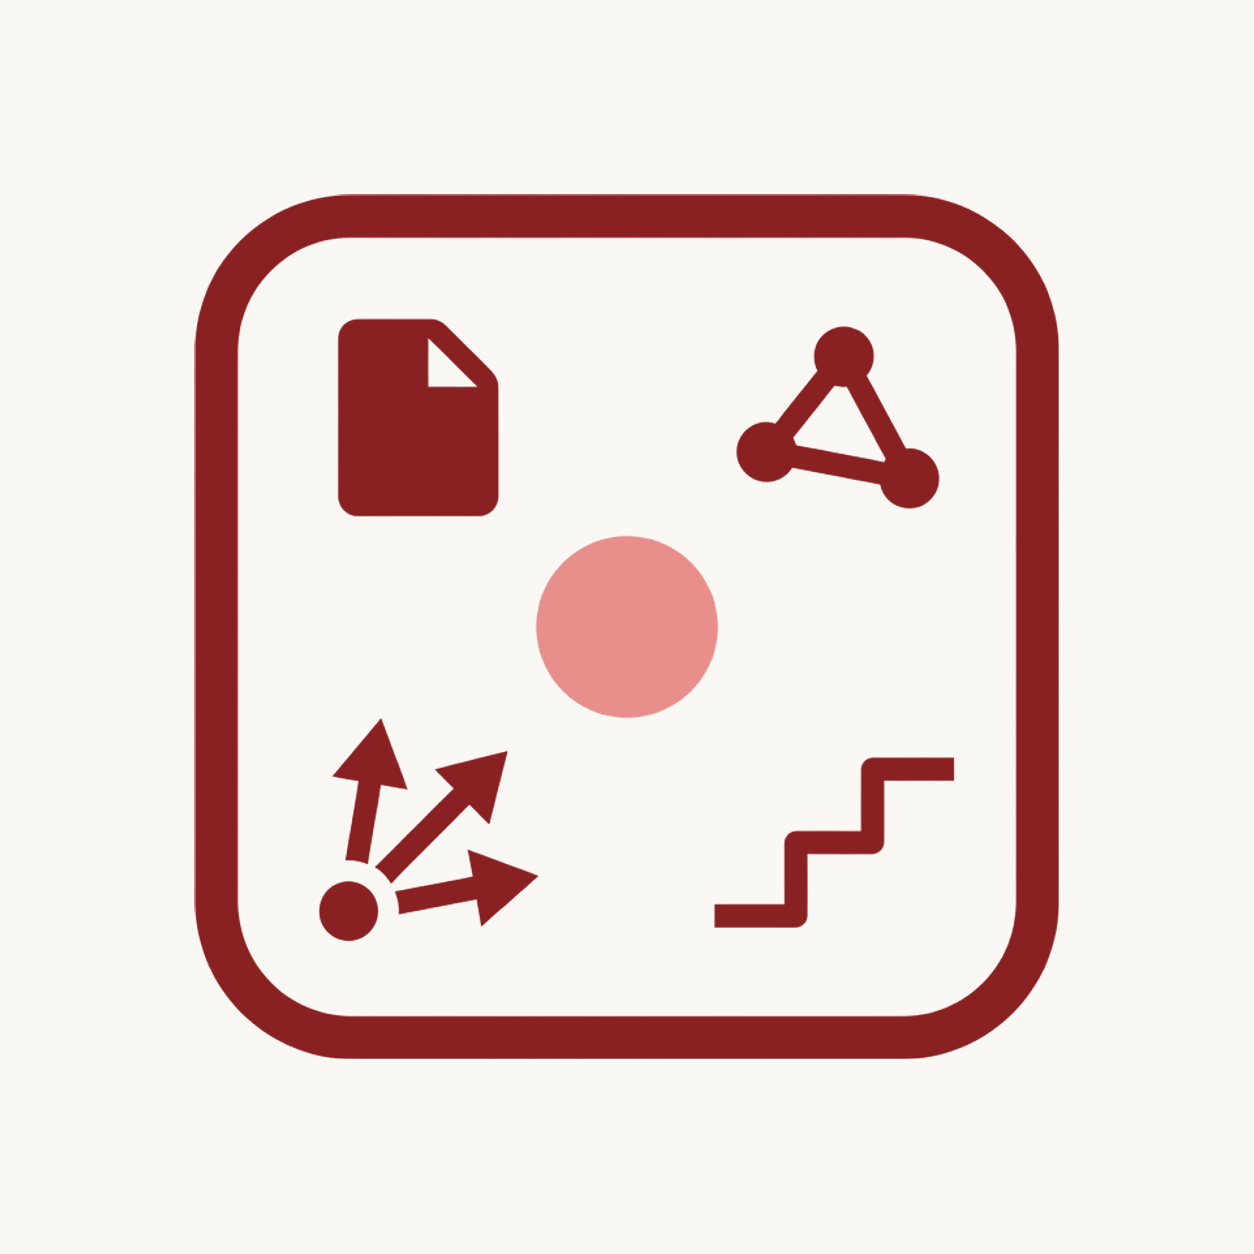
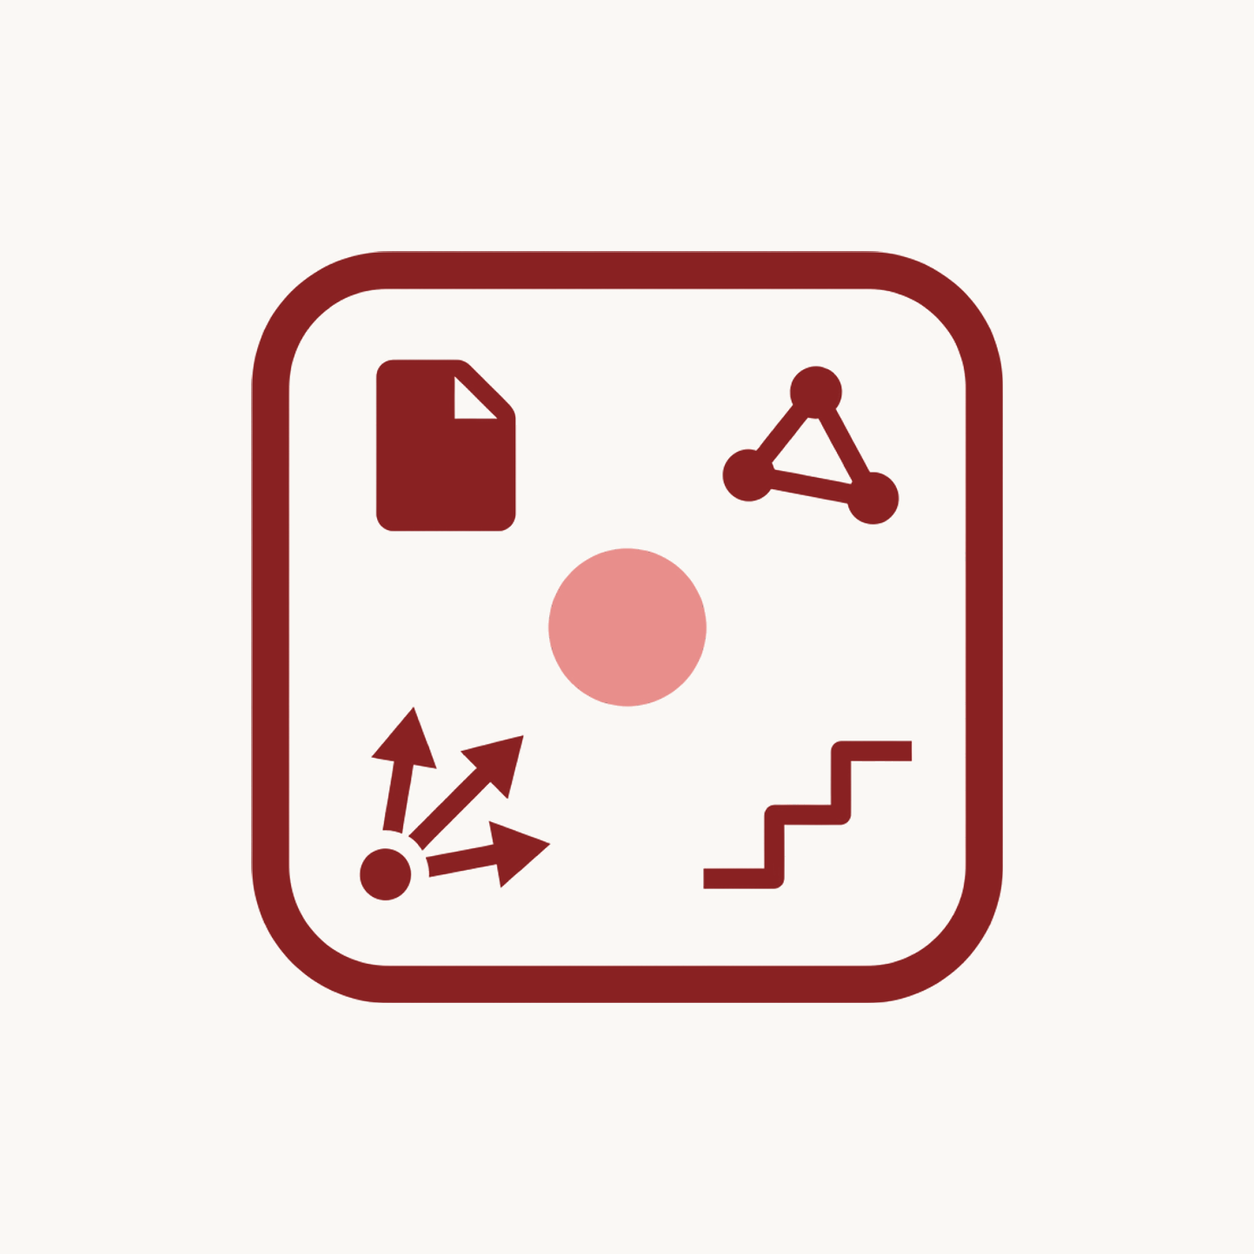
Project illustrations: fit the content to 60% of the height so the 16:10 hero keeps the whole frame (#104)

diff --git a/docs/design/image-generation.md b/docs/design/image-generation.md
@@ -30,7 +30,7 @@ The script builds the full prompt from the house template and these fields, so a
 2. **Audit the raw candidates.** It counts the share of stray charcoal pixels (a charcoal element the spec did not ask for) and picks the candidate with the least.
    The raw hue drift is reported but is not the gate, because the finisher removes it.
 3. **Finish.** It crops to the true content box, snaps the colors to the palette (ground exactly `#faf8f5`, ink `#892122`, accent `#e88e8b`, keeping anti-aliased edges),
-   recenters, and fits the content inside a box that survives both crops the site applies (5:6 keeps 83% of the width, 16:11 keeps 69% of the height) on a square canvas.
+   recenters, and fits the content inside a box that survives both crops the site applies (5:6 keeps 83% of the width, the 16:10 hero box keeps 62.5% of the height, so the box is 60%) on a square canvas.
 4. **Audit the finished image.** Off-palette pixels are measured against the ground-to-color lines, so edges do not count; the finished image should read about 0%.
 5. **Store the prompt.** The exact prompt that produced the shipped image goes to `docs/design/generated-prompts/<id>.txt`, with the model, the candidate count, the audit
    numbers and the alt text. A stored prompt is always the one that made the image.
